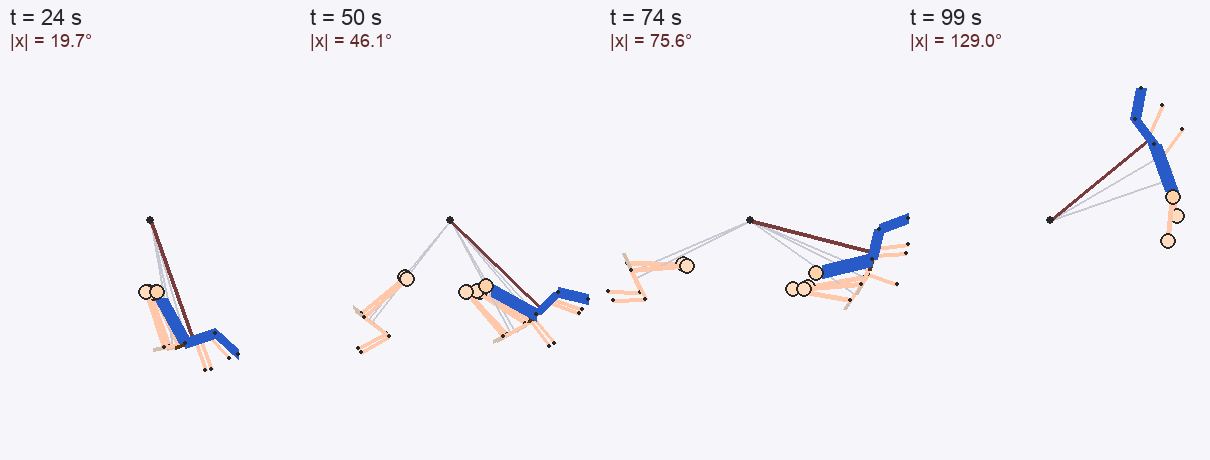
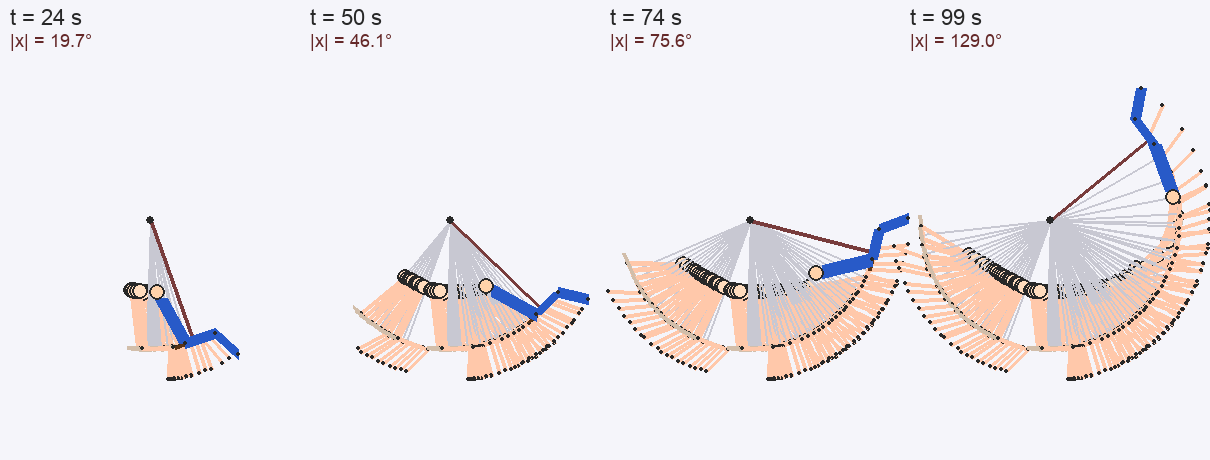
Fix ghost trails in hero and GIF images to show full history
Ghost rendering now traces back to frame 0 (episode start) instead of
a limited lookback window, matching the behavior of epi_anim.py and
render_rotation_video.py.

Changed region(s): [[0.3058, 0.3652, 1.0, 0.8217], [0.0917, 0.5174, 0.1835, 0.8217]]

diff --git a/make_readme_images.py b/make_readme_images.py
@@ -153,8 +153,8 @@ SKIP_GIF = 4  # 4フレームに1枚 = 80ms間隔
 for frame in range(gif_start_zc, gif_end_zc, SKIP_GIF):
     surf = pygame.Surface((GIF_W, GIF_H))
     surf.fill((245, 245, 250))
-    # ゴースト (この区間の先頭から)
-    for i in range(frame - 1, gif_start_zc - 1, -1):
+    # ゴースト (エピソード先頭からの全履歴)
+    for i in range(frame - 1, -1, -1):
         if atMLB[i] > 0:
             draw_figure(surf, gif_cx, gif_cy, i, ghost_colors, ghost_widths, (255, 220, 190))
     # 現在
@@ -201,9 +201,8 @@ hero_surf.fill((245, 245, 250))
 for pi, fidx in enumerate(hero_frames):
     px = pi * PANEL_W + PANEL_W // 2
     py = PANEL_H // 2 + 20
-    # ゴースト: 直前数秒分のatMLB
-    lookback = int(5.0 / 0.02)  # 5秒分
-    for i in range(fidx - 1, max(-1, fidx - lookback), -1):
+    # ゴースト: エピソード先頭からの全履歴
+    for i in range(fidx - 1, -1, -1):
         if atMLB[i] > 0:
             draw_figure(hero_surf, px, py, i, ghost_colors, ghost_widths, (255, 220, 190), scale=80)
     # 現在フレーム
